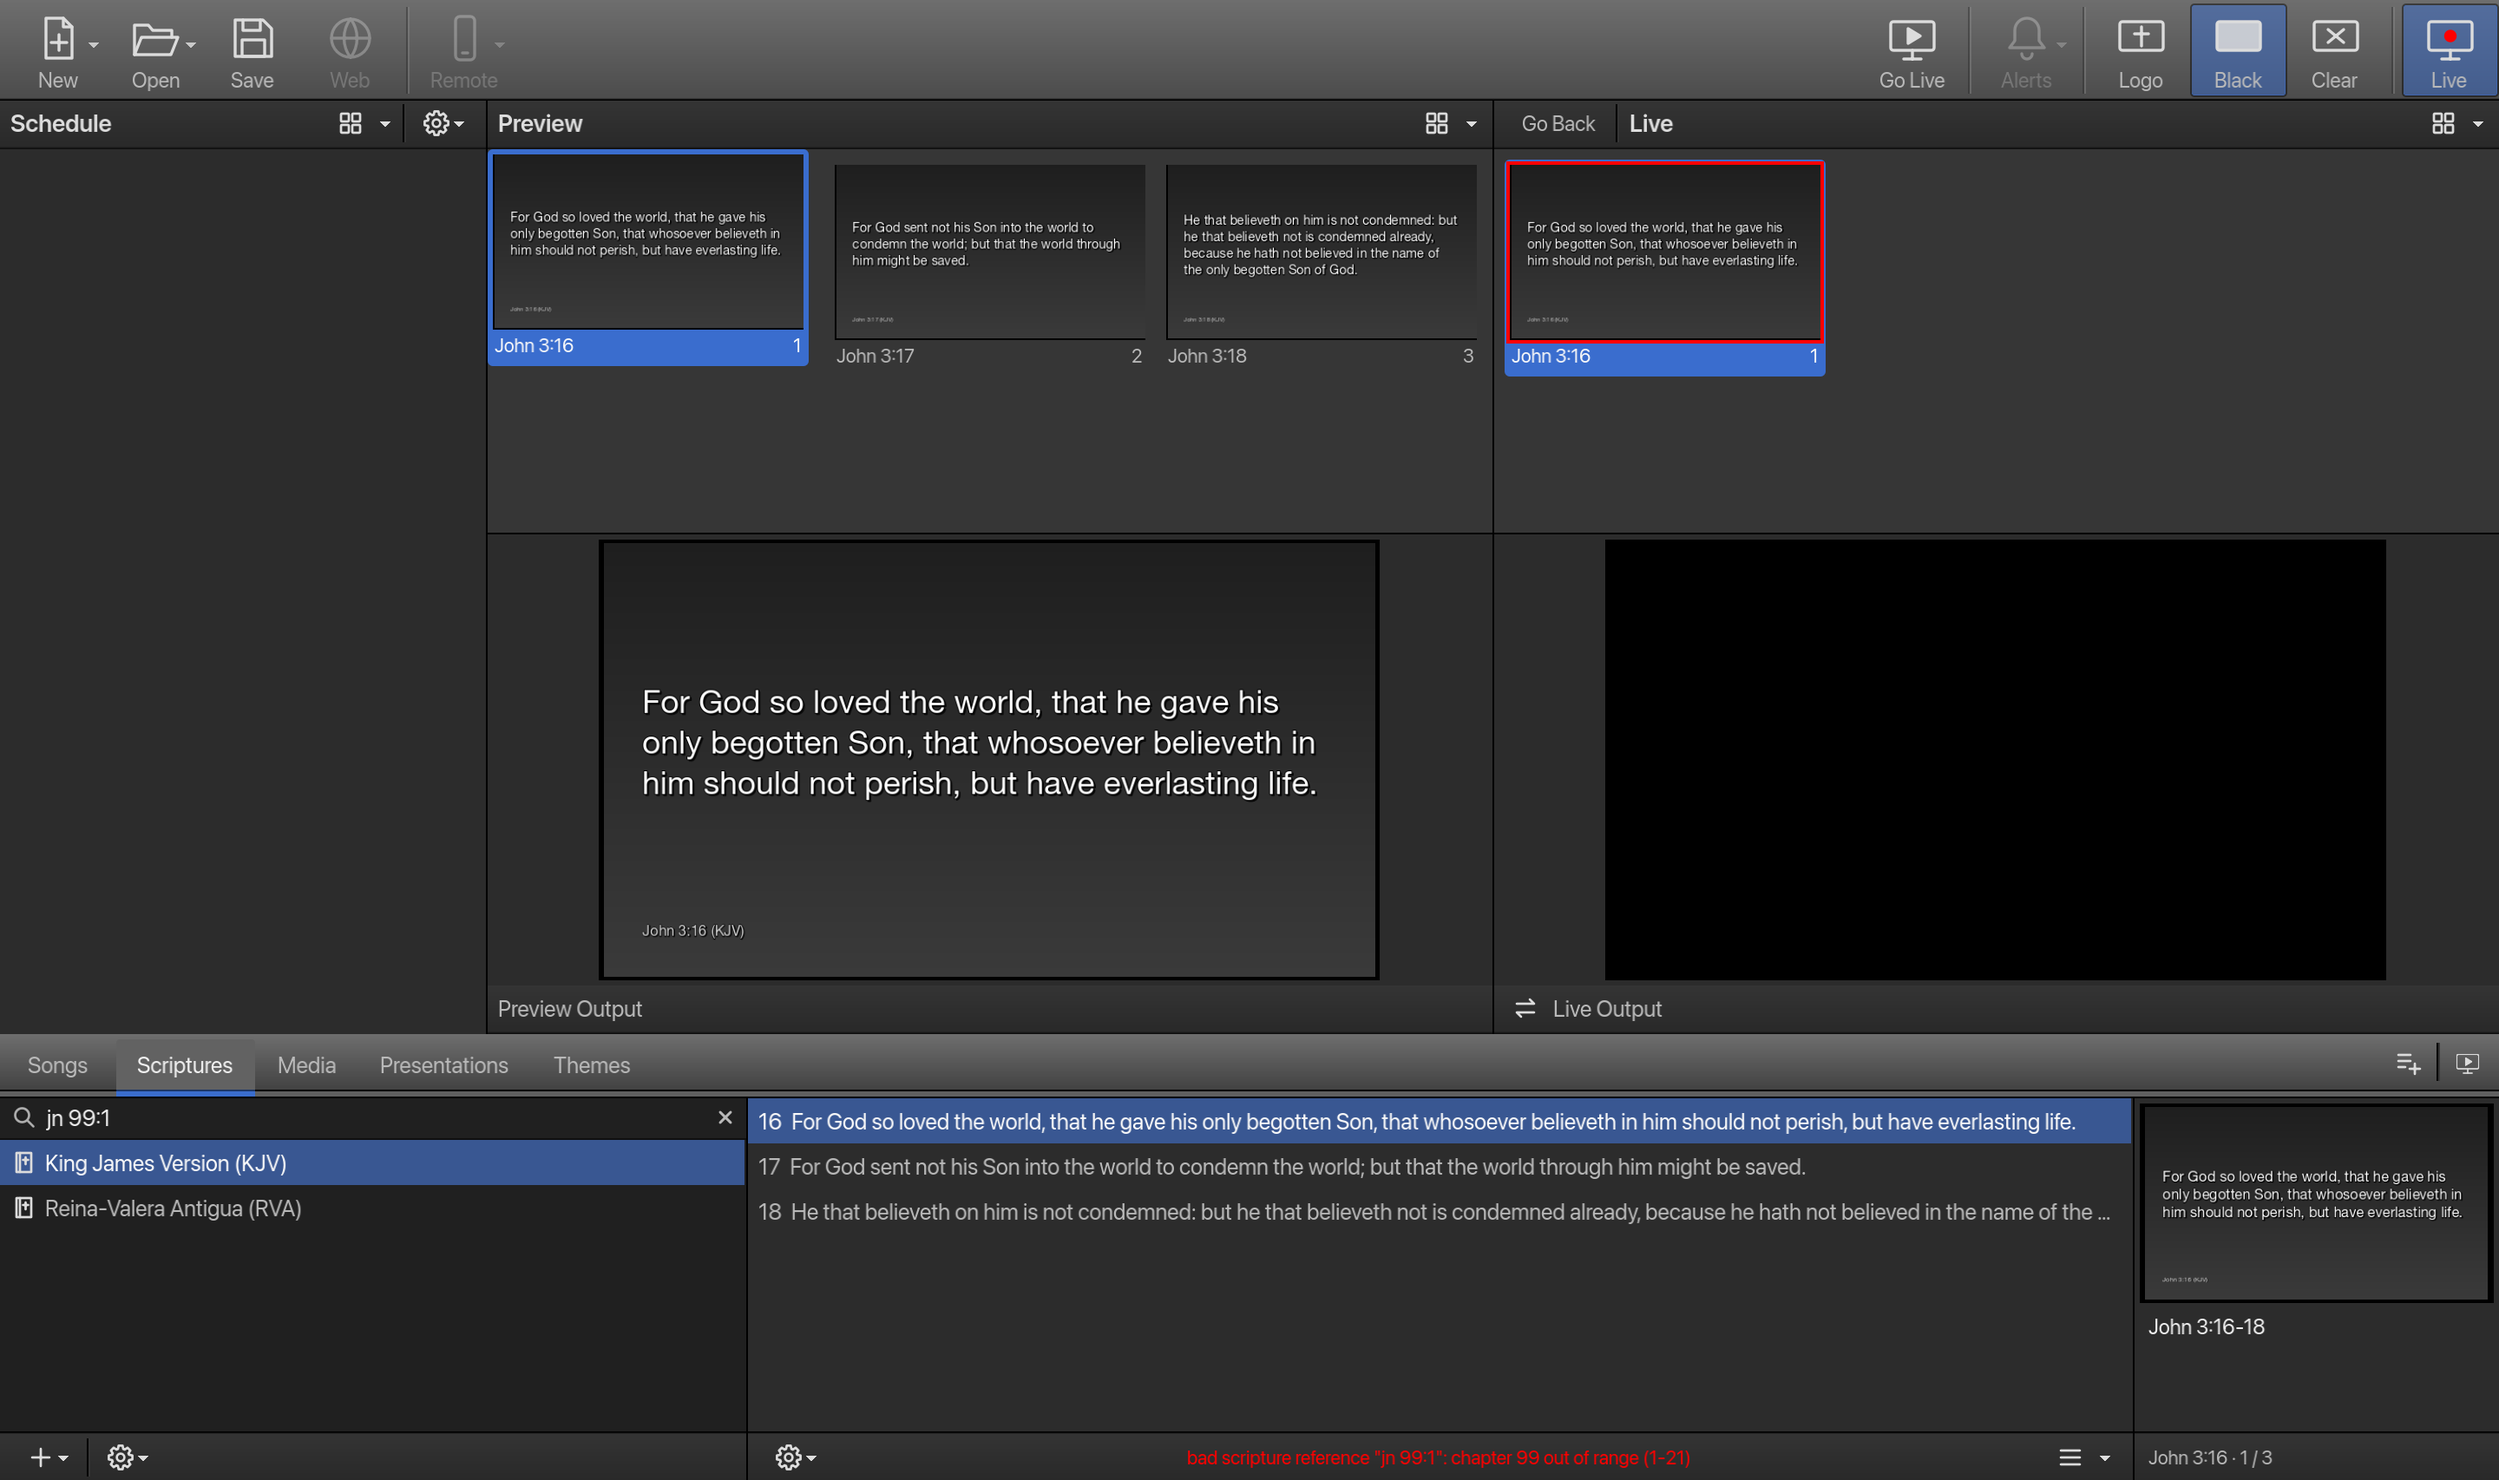
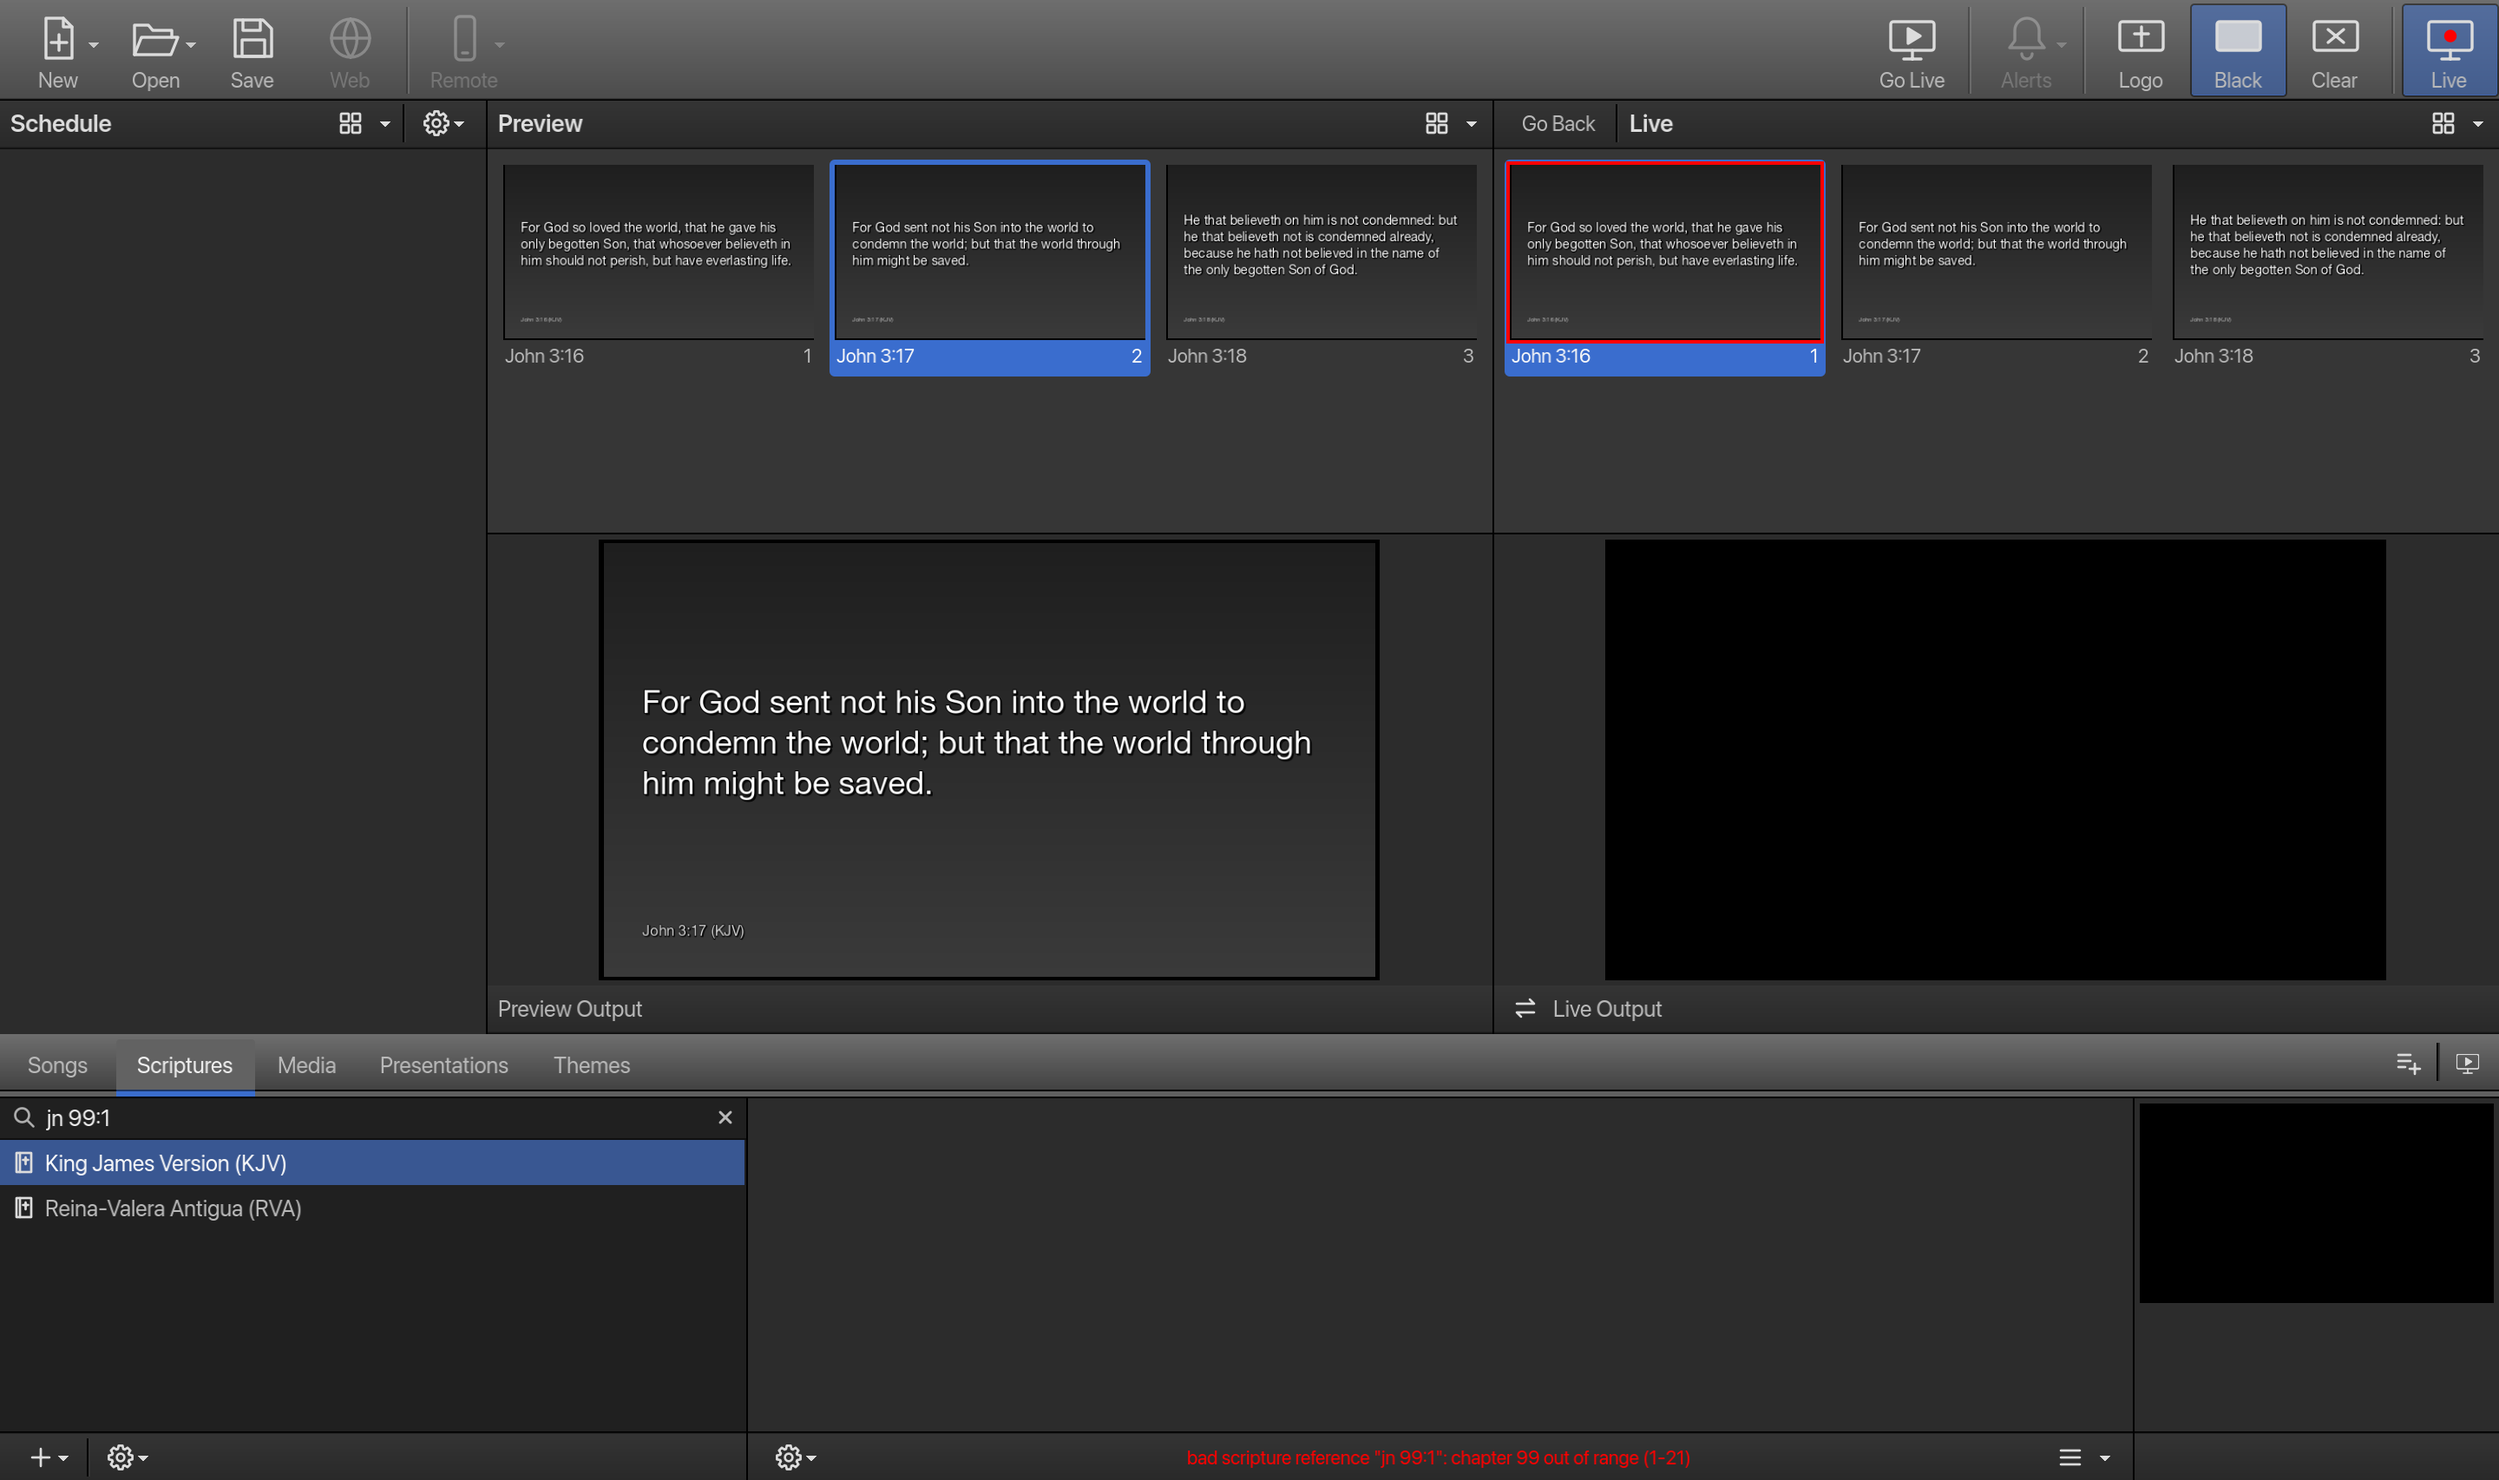
docs: record the review fixes and new graphics.gd gotchas
PHASE1-STATUS gains a Review fixes section (fix and test per item).
CLAUDE.md records the sort-handler flush, quiet Tree updates and
exclusive-dialog stacking. app-main-black.png is retaken without the
misplaced first tile.

diff --git a/docs/PHASE1-STATUS.md b/docs/PHASE1-STATUS.md
@@ -9,7 +9,7 @@ Legend: **pass**: verified. **partial**: works, but part of the criterion is not
 How to reproduce:
 ```bash
 gofmt -l . ; go build ./... && go vet ./... && go test -count=1 ./...
-test/smoke.sh          # 125 checks; screenshots and app.log in test/out/
+test/smoke.sh          # 178 checks; screenshots and app.log in test/out/
 ```
 In this document, "smoke: X" names a check that `test/smoke.sh` prints as `ok: X`. Screenshots that `test/smoke.sh`
 captured are copied to `docs/screens/app-*.png`.
@@ -69,5 +69,27 @@ captured are copied to `docs/screens/app-*.png`.
 
 | Criterion | Status | Verification |
 |---|---|---|
-| Control server: `GET /state`, `GET /screenshot?window=main\|output`, POST actions | **pass** | Used by every smoke step. Actions: `search-songs`, `select-song`, `reference`, `select-preview-slide`, `go-live`, `next`, `prev`, `first`, `last`, `jump`, `black`, `clear`, `logo`, `output`, `go-back`, `add-to-schedule`, `select-schedule`, `remove-schedule`, `move-schedule`, `save-schedule`, `open-schedule`, `new-schedule`, `key`, `wait-idle`, `quit`. UI-driving hooks: `native-key`, `focus`, `tab`, `editor`, `save-song`, `delete-song`, `dismiss`, `close`. Screenshot windows: `main`, `output`, `editor`, `dialog`. |
-| `test/smoke.sh` drives a song and a scripture to live, saves screenshots, asserts `/state` | **pass** | 125 checks. Screenshots go to `test/out/` (git-ignored). The run ends through the real window-close path, and the script fails on any log error or warning. |
+| Control server: `GET /state`, `GET /screenshot?window=main\|output`, POST actions | **pass** | Used by every smoke step. Actions: `search-songs`, `select-song`, `reference`, `select-preview-slide`, `go-live`, `next`, `prev`, `first`, `last`, `jump`, `black`, `clear`, `logo`, `output`, `go-back`, `add-to-schedule`, `select-schedule`, `remove-schedule`, `move-schedule`, `save-schedule`, `open-schedule`, `new-schedule`, `key`, `wait-idle`, `quit`. UI-driving hooks: `native-key` (`window: "output"` targets the output window), `focus`, `tab`, `editor`, `save-song`, `delete-song`, `dismiss` (topmost dialog), `accept` (topmost dialog's OK), `click-schedule`, `resource-go-live`, `close`. Screenshot windows: `main`, `output`, `editor`, `dialog`, `message`. `/state` also reports the open dialogs (`dialog`) and the resource preview (`resource`). |
+| `test/smoke.sh` drives a song and a scripture to live, saves screenshots, asserts `/state` | **pass** | 178 checks. Screenshots go to `test/out/` (git-ignored). The run ends through the real window-close path, and the script fails on any log error or warning. |
+
+## Review fixes
+
+Fixes for the independent review's verified findings (2026-10-18). Every fix has a regression test: a unit test
+(`go test ./...`) or a smoke check (`test/smoke.sh`, "smoke: X").
+
+| # | Finding | Fix | Test |
+|---|---|---|---|
+| 1 | Backspace (a MacBook's "delete") changed the projector instead of removing an item | `core.Hotkeys` passes Backspace through to a focused list. The schedule removes the selected item and the song list asks to delete the song (like Delete). `App.UnhandledKeyInput` + `Hotkeys.Unhandled` turn a Backspace the list did not consume back into Prev (e.g. in the verse list). | `TestHotkeys` ("list keeps its navigation keys"), `TestHotkeysUnhandled`. Smoke: `Backspace in the schedule removes the item (not Prev)`, `Backspace in the song list asks to delete`, `Backspace in the verse list is Prev`, plus the existing `key backspace (prev)`. |
+| 2 | Scripture Go Live sent the last clicked verse, not the highlighted one | One source of truth: `core.SelectedVerse` (Preview's selection while Preview holds the passage, else the last chosen row) drives the highlight, the resource preview (now derived, `scriptRes` removed) and Go Live (`goLiveVerse`). | `TestSelectedVerse`, `TestSameDeck`. Smoke: `resource Go Live sends the highlighted verse`, `Go Live again follows the preview` (and the `resource` caption checks). |
+| 3 | Re-clicking the highlighted schedule row did nothing | Every Preview load goes through `App.setPreview`, so the schedule selection follows Preview (`core.ScheduleSelection`): library content clears it, and the next click on that row fires again. | `TestScheduleSelection`. Smoke (real mouse clicks via `click-schedule`): `click schedule row 0`, `preview library content`, `clicking row 0 again loads it again`. |
+| 4 | Failed schedule save/open was silent | New `ui.MessageDialog` (OK only). `App.alert` queues the error and `render` projects the queue onto the dialog. Wired to schedule open/save, the native file dialogs, the EasyWorship import, and song load/save/delete. Dialogs opened over another dialog become its child (`MainWindow.dialogHost`), because Godot gives a window only one exclusive child. | Smoke: `opening a corrupt schedule fails`, `the error is shown in a dialog`, `error dialog has content` (screenshot `error-dialog.png`), `hotkeys are off while the error is shown`, `OK closes the error`. `TestBuildStateDialog`. |
+| 5 | "Add to Schedule" after a failed lookup added the old passage | A failed or empty lookup (parse error, no Bible, DB error, no verses) calls `clearPassage`: passage, deck, rows and selection. Adding then does nothing and says so in the status. | Smoke: `the failed lookup cleared the passage`, `add-to-schedule after a failed lookup adds nothing`, `the schedule is unchanged and the status says why`. |
+| 6 | Stale song loads still applied out of order | `core.Sequencer` applies song-load results in request order. A superseded preview is dropped; go live, add to schedule and edit still happen, in order. The control reply waits for its own result, and every ticket completes even if a load panics. | `TestSequencer`, `TestSequencerSupersededIntents`. |
+| 7 | Save As kept the old title | `models.Schedule.SaveAs` names the schedule after the new file (`Save` is unchanged). The app uses it when `core.IsSaveAs` (another file than the current one), from the dialog or `save-schedule {path}`. | `TestScheduleSaveAs`, `TestIsSaveAs`. Smoke: `Save As renames the schedule`, `window title follows Save As`, `Save to the same file keeps the name`. |
+| 8 | The import failure status was overwritten by the next search | The Songs footer comes from `core.SongsFooter`, which keeps "· EasyWorship import failed" next to the count. The details are shown in the error dialog (#4). | `TestSongsFooter`. |
+| 9 | Quitting ignored the open song editor | `requestQuit` asks first when the editor is open. Cancel keeps it open. OK closes it and then asks about an unsaved schedule. | Smoke: `closing with the editor open asks first` (screenshot `quit-editor-confirm.png`), `Cancel keeps the editor open`, `OK discards the editor`, `then asks about the unsaved schedule`. |
+| 10 | Hotkeys were dead while the output window had focus | `render.Output.OnInput` forwards the output window's `window_input` into the same hotkey path (`App.outputInput`). The main window's focus does not apply there, and an open dialog still disables hotkeys. | Smoke: `Left in the output window is Prev`, `Ctrl+B in the output window is Black`, `Cmd+B in the output window toggles back`, `Up in the output window is not the song list's Up`. |
+| 11 | Fragile Tree signal guard in Songs/Scriptures render | `ui.quietly` blocks the Tree's signals around programmatic changes and flushes graphics.gd's call buffer before unblocking. It replaces the `rendering` flags. The other widgets were checked: they use `SetPressedNoSignal` or setters that do not emit. | Covered by the existing smoke selection checks (`select Amazing Grace`, `Down in the song list moves the list`, `select preview slide 2`). |
+| 12 | Hand-made `.fws` files kept missing/duplicate item ids | `LoadSchedule` gives items without an id, or repeating an earlier id, a new unique id. | `TestLoadScheduleRepairsIDs`. |
+| 13 | First grid tile drawn ~6px up-left after a deck change | Root cause: container sort handlers' buffered `FitChildInRect` calls were flushed inside a tile's own `Draw`. Godot moved the tile while it was drawing and dropped the redraw that refreshes its canvas transform. Sort handlers (`tileFlow`, `MonitorHost`, `Splitter`) now end with `flushCalls`. | Smoke pixel checks on `grid-deck-change.png`: `first preview tile is not drawn at the grid corner`, `first preview tile is at the grid padding`. (`pngcheck.py` gained `lacks`.) |
+| 14 | Shutdown could stall on `Store.Close` | Async jobs are tracked. Shutdown cancels them and waits at most 3 s (`core.WaitTimeout`) before closing the library. `Store.Close` runs `PRAGMA optimize` on its own connection with a 500 ms busy timeout, because SQLite's busy handler ignores context cancellation. | `TestCloseIsBoundedWhileAnotherWriterHoldsTheLock` (10 s before, 0.5 s after), `TestWaitTimeout`. Smoke ends through the real close path. |

diff --git a/CLAUDE.md b/CLAUDE.md
@@ -71,6 +71,13 @@ internal/app               Godot: the App node that wires store + presenter + ui
 - graphics.gd buffers void engine calls, and `_gui_input` does not flush that buffer when the handler returns. Follow
   `AcceptEvent()` / `SetInputAsHandled()` with any getter to force the flush (see `internal/ui/events.go`
   `acceptEvent` / `setInputHandled`). Otherwise Godot moves focus before the accept lands.
+- Container sort handlers (`NotificationSortChildren`) must end with a getter (`flushCalls` in `internal/ui/events.go`).
+  Otherwise the buffered `FitChildInRect` calls are flushed inside a child's own `Draw`. Godot then moves the child
+  mid-draw and drops the redraw that updates its canvas transform, so the child keeps rendering at its old offset.
+- Programmatic Tree selection: wrap it in `quietly` (`internal/ui/events.go`). It blocks the Tree's signals and flushes
+  before unblocking, so `item_selected` is never reported as a user action.
+- Godot gives a window only one exclusive child. A dialog opened over another dialog must be that dialog's child
+  (`MainWindow.dialogHost` reparents it on popup).
 - `PropagateNotification` and `Input.ParseInputEvent` deliver after the current Go call returns.
 - A synthesized key event needs `unicode` set to type into a LineEdit.
 - Changing a Tree selection in code (`set_selected`/`deselect_all`) needs `QueueRedraw()` to show.
